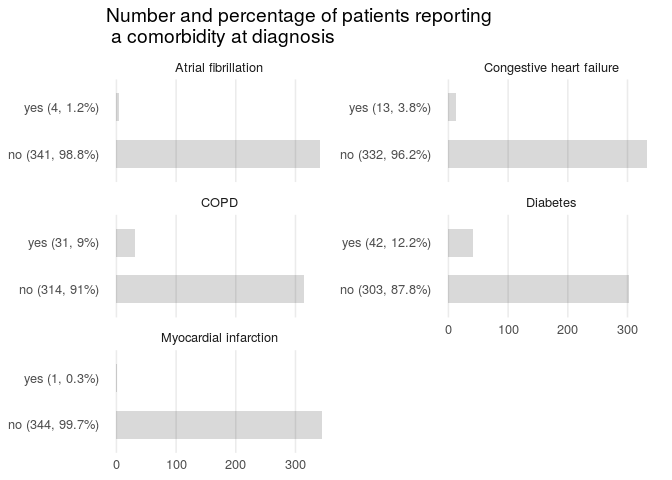
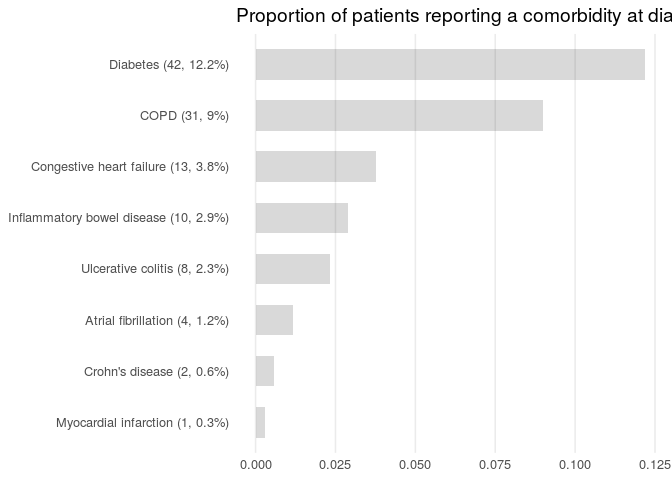
replot using proportion

diff --git a/02_ida_univar_crs.md b/02_ida_univar_crs.md
@@ -203,6 +203,49 @@ crs %>%
 
 ![](02_ida_univar_crs_files/figure-markdown_github/unnamed-chunk-4-1.png)
 
+``` r
+crs %>%
+  select(id, chf, afib, diabetes, mi, copd, crohn, ulcercol, ibd) %>%
+  pivot_longer(-id, names_to = "comorb", values_to = "value") %>%
+  mutate(
+    comorb = case_when(
+      comorb == "chf" ~ "Congestive heart failure",
+      comorb == "afib" ~ "Atrial fibrillation",
+      comorb == "diabetes" ~ "Diabetes",
+      comorb == "copd" ~ "COPD",
+      comorb == "mi" ~ "Myocardial infarction",
+      comorb == "crohn" ~ "Crohn's disease",
+      comorb == "ulcercol" ~ "Ulcerative colitis",
+      comorb == "ibd" ~ "Inflammatory bowel disease"
+    ),
+    value = case_when(value == "0" ~ "no",
+                      value == "1" ~ "yes")
+  ) %>%
+  group_by(comorb, value) %>%
+  summarise(n = n()) %>%
+  mutate(
+    inc = n / bigN,
+    perc = n / bigN * 100,
+    plot_lab = paste0('(', n, ', ', round(perc, digits = 1), '%)'),
+    axis_lab = paste0(comorb, ' ', '(', n, ', ', round(perc, digits = 1), '%)')
+  ) %>%
+  filter(value == "yes") %>%
+  ggplot(aes(reorder(axis_lab, inc), inc)) +
+  geom_col(width = 0.6,
+           alpha = 0.15,
+           fill = "black") +
+  coord_flip() +
+  ggtitle("Proportion of patients reporting a comorbidity at diagnosis") +
+  theme_minimal(base_size = 12) +
+  theme(
+    panel.grid.minor = element_blank(),
+    panel.grid.major.y = element_blank(),
+    axis.title = element_blank()
+  )
+```
+
+![](02_ida_univar_crs_files/figure-markdown_github/unnamed-chunk-5-1.png)
+
 Patient characteristics
 -----------------------
 
@@ -243,16 +286,16 @@ sessionInfo()
     ##  [7] htmltools_0.4.0     yaml_2.2.0          base64enc_0.1-3    
     ## [10] rlang_0.4.2         pillar_1.4.2        foreign_0.8-71     
     ## [13] glue_1.3.1          withr_2.1.2         RColorBrewer_1.1-2 
-    ## [16] lifecycle_0.1.0     stringr_1.4.0       munsell_0.5.0      
-    ## [19] gtable_0.3.0        htmlwidgets_1.5.1   evaluate_0.14      
-    ## [22] labeling_0.3        latticeExtra_0.6-28 knitr_1.26         
-    ## [25] htmlTable_1.13.3    Rcpp_1.0.3          acepack_1.4.1      
-    ## [28] backports_1.1.5     scales_1.1.0        checkmate_1.9.4    
-    ## [31] farver_2.0.1        gridExtra_2.3       digest_0.6.23      
-    ## [34] stringi_1.4.3       rprojroot_1.3-2     grid_3.6.0         
-    ## [37] tools_3.6.0         magrittr_1.5        lazyeval_0.2.2     
-    ## [40] tibble_2.1.3        cluster_2.0.8       crayon_1.3.4       
-    ## [43] pkgconfig_2.0.3     zeallot_0.1.0       Matrix_1.2-17      
-    ## [46] data.table_1.12.8   assertthat_0.2.1    rstudioapi_0.10    
-    ## [49] R6_2.4.1            rpart_4.1-15        nnet_7.3-12        
-    ## [52] compiler_3.6.0
+    ## [16] jpeg_0.1-8.1        lifecycle_0.1.0     stringr_1.4.0      
+    ## [19] munsell_0.5.0       gtable_0.3.0        htmlwidgets_1.5.1  
+    ## [22] evaluate_0.14       labeling_0.3        latticeExtra_0.6-29
+    ## [25] knitr_1.26          htmlTable_1.13.3    Rcpp_1.0.3         
+    ## [28] acepack_1.4.1       backports_1.1.5     scales_1.1.0       
+    ## [31] checkmate_1.9.4     farver_2.0.1        gridExtra_2.3      
+    ## [34] png_0.1-7           digest_0.6.23       stringi_1.4.3      
+    ## [37] rprojroot_1.3-2     grid_3.6.0          tools_3.6.0        
+    ## [40] magrittr_1.5        lazyeval_0.2.2      tibble_2.1.3       
+    ## [43] cluster_2.0.8       crayon_1.3.4        pkgconfig_2.0.3    
+    ## [46] zeallot_0.1.0       Matrix_1.2-17       data.table_1.12.8  
+    ## [49] assertthat_0.2.1    rstudioapi_0.10     R6_2.4.1           
+    ## [52] rpart_4.1-15        nnet_7.3-12         compiler_3.6.0
